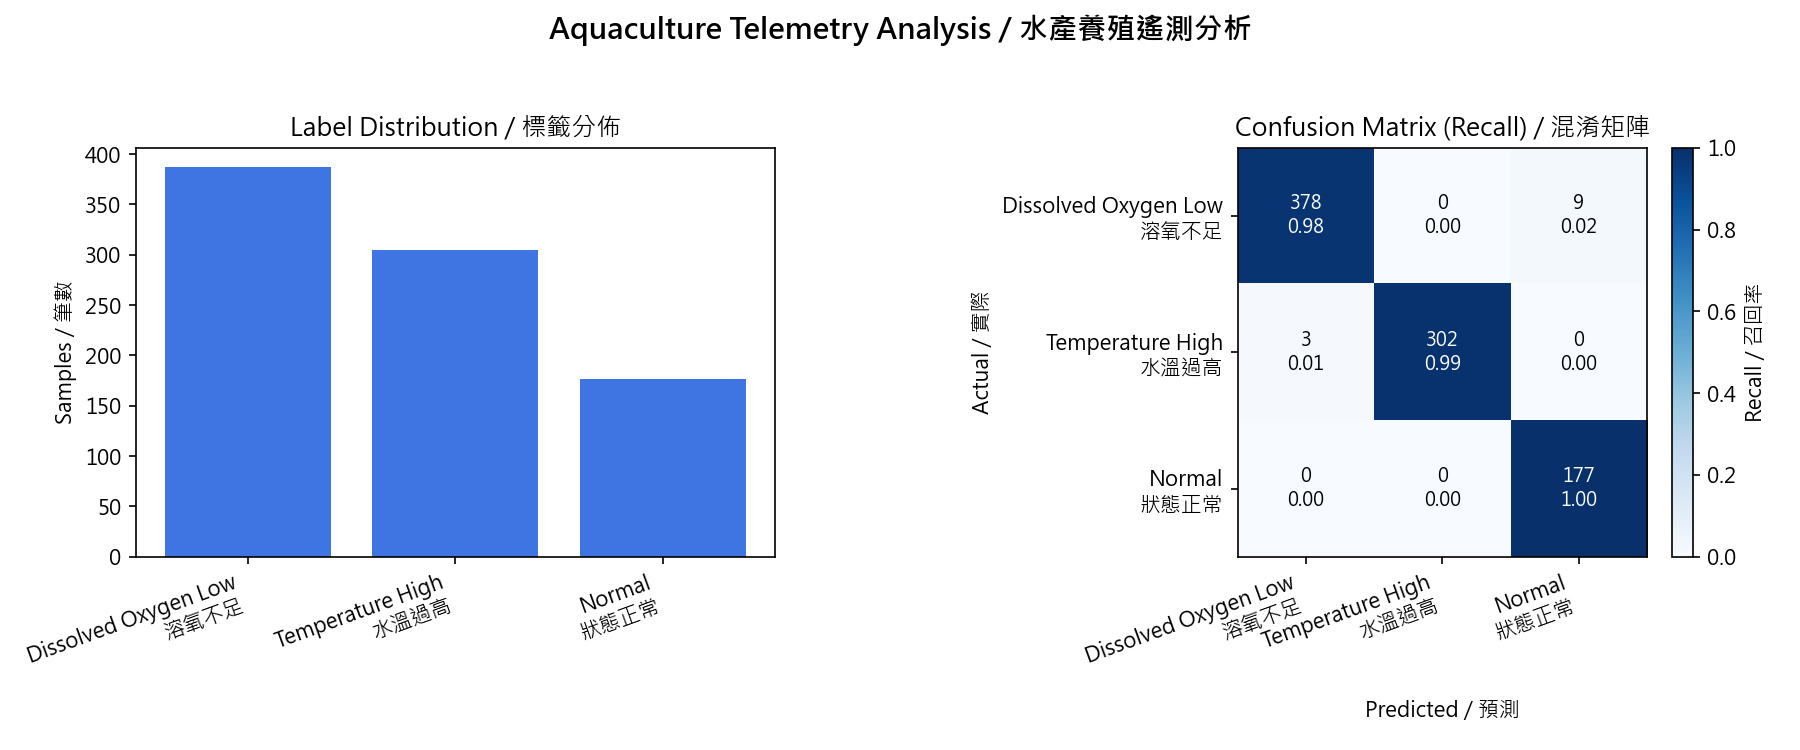
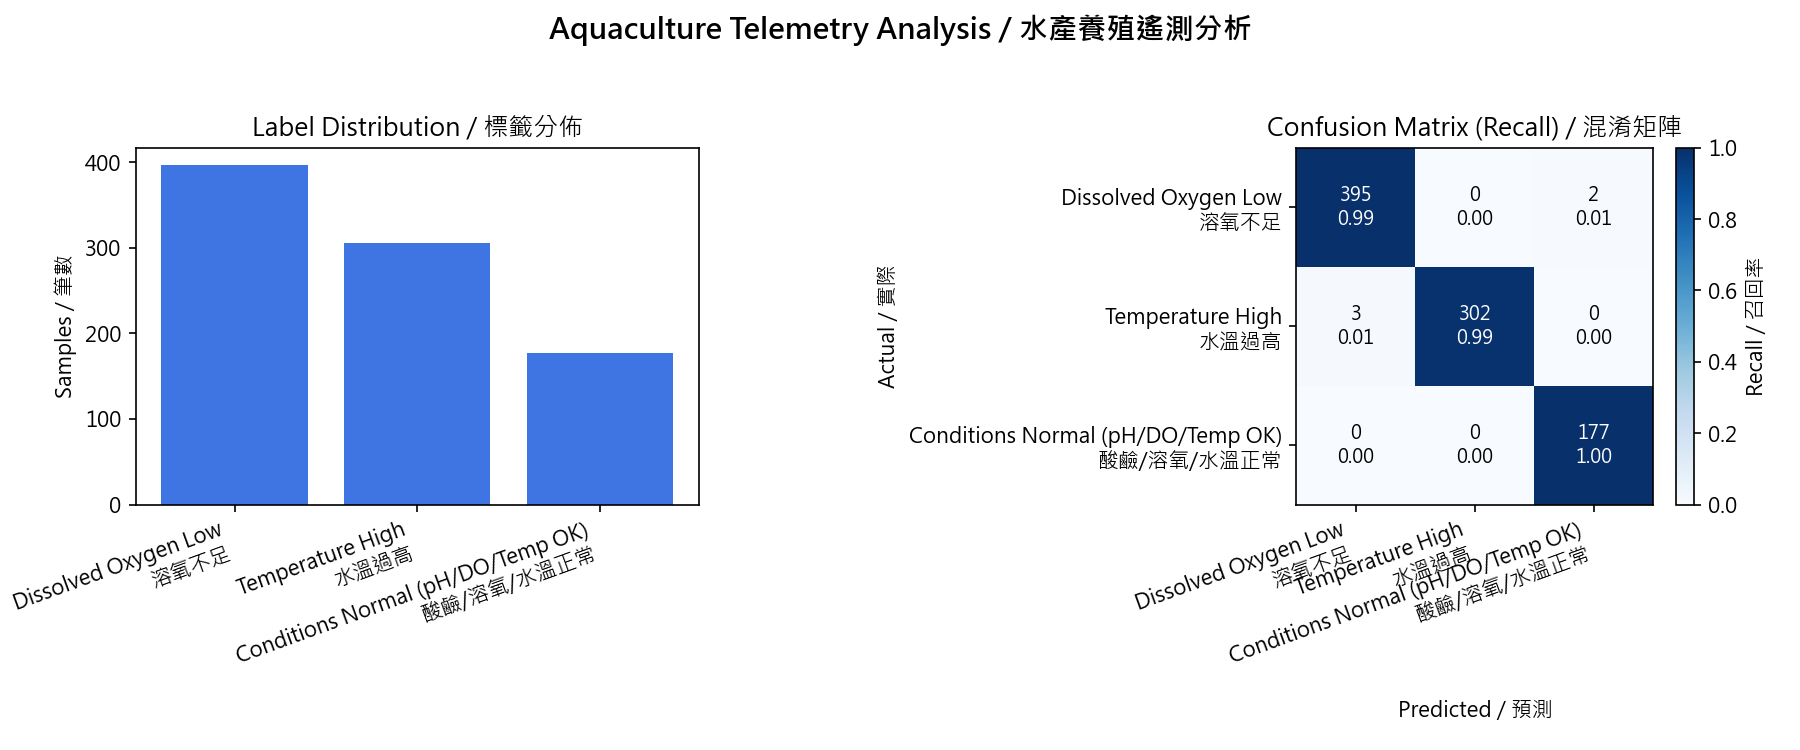
Clarify normal label as overall water-quality ok

diff --git a/train_classifier.py b/train_classifier.py
@@ -26,7 +26,7 @@ LABELS_ZH = {
     "pH_high": "pH 太高",
     "DO_low": "溶氧不足",
     "Temp_high": "水溫過高",
-    "normal": "狀態正常",
+    "normal": "酸鹼/溶氧/水溫正常",
 }
 
 LABELS_EN = {
@@ -34,7 +34,7 @@ LABELS_EN = {
     "pH_high": "pH High",
     "DO_low": "Dissolved Oxygen Low",
     "Temp_high": "Temperature High",
-    "normal": "Normal",
+    "normal": "Conditions Normal (pH/DO/Temp OK)",
 }
 
 LABELS_DISPLAY = {k: f"{LABELS_EN[k]} ({LABELS_ZH[k]})" for k in LABELS_ZH}

diff --git a/live_infer.py b/live_infer.py
@@ -26,7 +26,7 @@ LEGEND = {
     "pH_high": "pH High (酸鹼值過高)",
     "DO_low": "Dissolved Oxygen Low (溶氧不足)",
     "Temp_high": "Temperature High (水溫過高)",
-    "normal": "Within Thresholds (各項數值正常)",
+    "normal": "Conditions Normal (酸鹼/溶氧/水溫正常)",
 }
 
 TOPIC_SUFFIX_MAP = {
